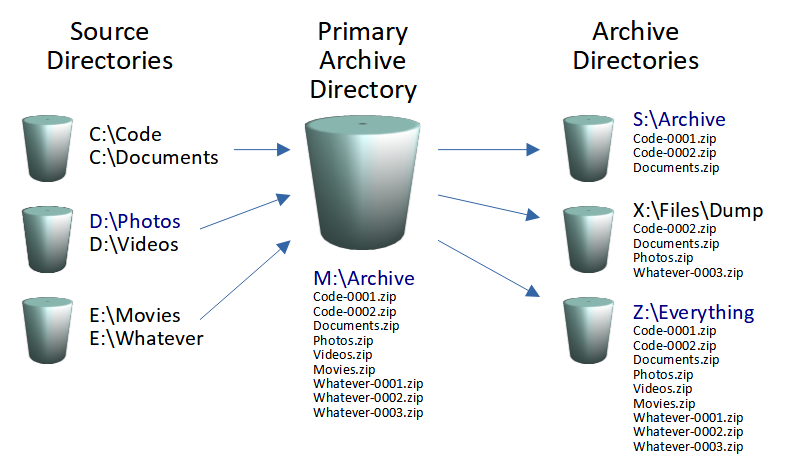
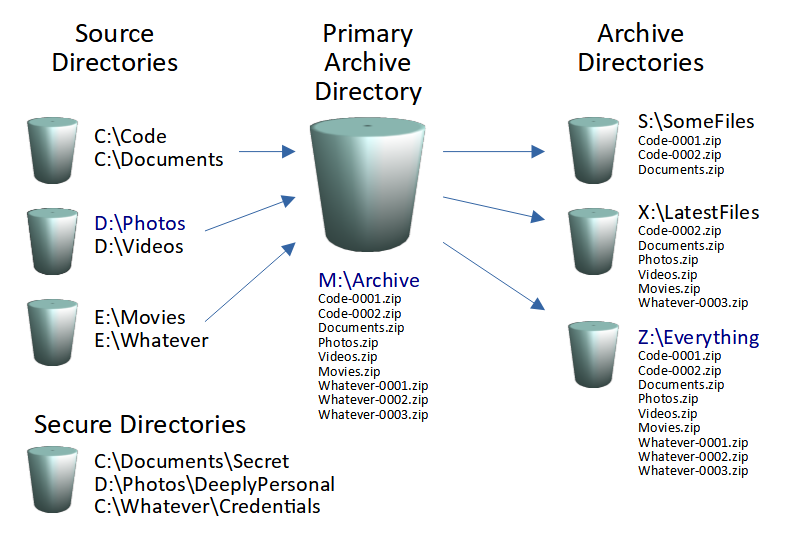
Added secure directories to diagram

diff --git a/README.md b/README.md
@@ -36,7 +36,9 @@ The diagram below shows a simple layout, essentially source directories are zipp
 
 Note that some files go to one archive directory, some to another, and all of them to the third one; you can set it up to spread the files around as you like. 
 
-You could keep the last month of updates to your code in one archive directory and also keep the complete history of it on a different one, and do the opposite for your documents, and keep just the most recent version of everything somewhere else, or whatever.
+You could keep the last month of updates to your code in one archive directory and also keep the complete history of it on a different one, keep the last 10 versions of your documents plus all versions for the last 90 days on another, and keep the 3 most recent versions of everything somewhere else, copy the last month of all archives to a removeable drive whenever it is mounted, and just the most recent code and documents to a different removeable drive if it is plugged in.
+
+Essentially you can set it up to be as convoluted and excessive as you see fit, and then continually tinker with the configuration as your level of paranoia varies and exciting new backup strategies occur to you.
 
 <img alt="Source and archive directories" title="Source and archive directories" src="https://github.com/silentdiverchris/Archivist/raw/master/Diagrams/Directories.png">
 
@@ -177,6 +179,8 @@ You can define any number of different jobs which can select different sets of d
 # Removable volumes
 
 My backup system involves having several external drives which I mount for various reasons, eg. one for daily backups which is almost always connected, one which I plug in just at the start of each week, one for the start of each month, and a pair of two identical large SSDs which I generally leave one of attached but alternate between them. So sometimes S:\ or Y:\ might exist, sometimes it won't.
+
+If you don't want to rely on mounted drives always having the same drive letter you can identify directories by volume label rather than drive letter by setting the the VolumeLabel configuration and not providing a drive in the DirectoryPath, see these items in the [configuration file](#ConfigurationFile) section below.
 
 If you mark a directory as removable with IsRemovable, the system will try to use it but if it's not there it won't be considered as an error. Any drive that is not found which is not marked as removable will be reported as an error.
 
@@ -342,7 +346,7 @@ These settings apply to both types of directory.
 |IsSlowVolume|Whether this is a slow volume, used in conjunction with config WriteToSlowVolumes so backup jobs that only read from and write to fast drives can be set up by setting job setting ProcessSlowVolumes to false.|
 |RetainVersions|If a file has a version suffix (created by setting source directory setting AddVersionSuffix to true) we will retain this many of them in this directory, zero means we keep all versions, which will eventually fill the volume.<br><br>Something to be aware of is that if you set this lower on an archive directory than on the source directory the system will keep copying over older versions and then deleting them, if the system finds this on startup it will log a warning but cheerfully copy and delete as instructed.<br><br>If RetainVersions is set to zero, no archives will ever be deleted.|
 |RetainDaysOld|Specifies the minimum age at which an archive file can be deleted, regardless of any version numbering. The age is determined by the last write time, not the creation time.<br><br>Zero disables this function and any non-zero value has a minimum of 7 days. This ensures that however many versions of the archive are created, it will not delete any file that is younger than this number of days.<br><br>This does not cause files to be deleted after that number of days, it just stops younger files being deleted.<br><br>If the RetainVersions setting is set to zero, this setting will have no effect and no archives will ever be deleted.|
-|VolumeLabel|Allows the directory to be identified by the volume label rather than a drive designation, for removable drives which aren't always F:\ or whatever. Set this to a valid volume label and ensure yhe DirectoryName has no drive designation, eg. VolumeLabel '1TB HDD' and DirectoryName 'Archive' will map to 'F:\Archive', as long as the label of F: matches the VolumeLabel setting.|
+|VolumeLabel|Allows the directory to be identified by the volume label rather than a drive designation, for removable drives which aren't always F:\ or whatever.<br><br>Set this to a valid volume label and ensure the DirectoryName has no drive designation.<br><br>For example, VolumeLabel '1TB HDD' and DirectoryName 'Archive' will map to 'F:\Archive' when that volume is mounted as drive 'F' and 'E:\Archive' when it is mounted as 'E'.|
 |DirectoryPath|The path of this directory, either the full path eg. 'H:\Archive', or just 'Archive' if a valid VolumeLabel is supplied.|
 |IncludeSpecifications|A list of file specs, eg '\*.txt', 'thing.\*', abc???de.jpg' etc, only process files matching these, an empty list includes all files.|
 |ExcludeSpecifications|A list of file specs, eg '\*.txt', 'thing.\*', abc???de.jpg' etc, ignore files matching these, an empty list doesn't exclude any files.|
